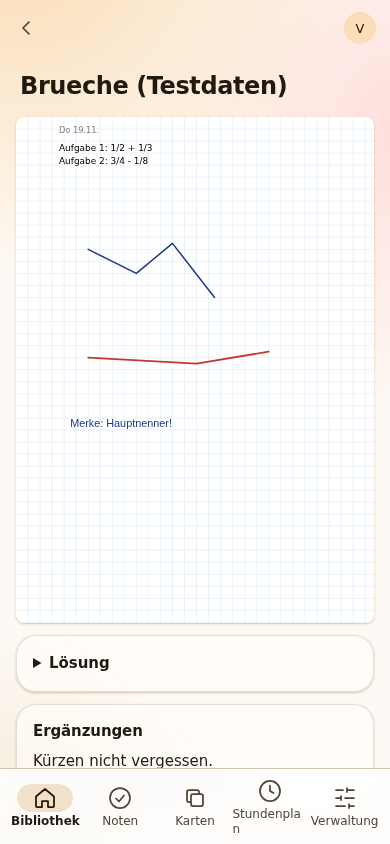
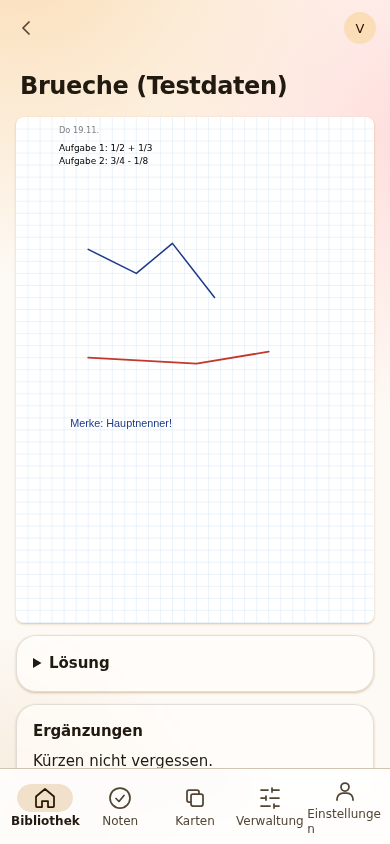
Screenshots without the timetable entry; STATE.md: security review 2 fixed

Changed region(s): [[0.5846, 0.9242, 0.9846, 0.9858]]

diff --git a/docs/STATE.md b/docs/STATE.md
@@ -214,28 +214,33 @@ gefahren; die Skripte der Basis laufen über die normale Verbindung (kleine neue
 
 **Offene Frage des Orchestrators an den Eigentümer** (nichts gebaut): Die Zuweisung gibt alle heutigen Hefte der Person, die die Einrichtung abschließt; der Besitzer ändert sich später nicht mehr.
 
-## Sicherheitsprüfung 2: Behebungen von Meilenstein 1 und Meilenstein 2 (Befunde vom 25.11.2026, Stand)
+## Sicherheitsprüfung 2: Behebungen von Meilenstein 1 und Meilenstein 2 (Befunde vom 25.11.2026, **behoben**)
 
 Ergebnis der Prüfung: kein kritischer oder hoher Befund, kein Weg, auf dem ein Mitglied oder jemand ohne Zugang an Hefte, Seiten, Striche, Scans, Noten, Karten oder die Verwaltung kommt; die Behebungen aus der ersten Prüfung halten.
-**Bauen der Punkte wartet auf das Startzeichen des Orchestrators** (je Punkt ein Commit und, wo möglich, ein Test). Text ist erledigt.
+Alle Punkte sind nach dem Startzeichen des Orchestrators behoben, je Punkt ein Commit und, wo möglich, ein Test. Stand: 384 Tests, 379 grün (die 5 roten sind die Backup-Tests, die `pg_dump` 18 brauchen).
 
-| Nr. | Befund | Vorgesehene Behebung | Stand |
-|---|---|---|---|
-| 1 | Falsche Token spülen das Sicherheitsprotokoll leer (`Keep = 2000`, eine Zeile je gesperrter Minute) | höchstens eine Zeile je Adresse und Stunde oder eine Sammelzeile je Stunde mit Anzahl | offen |
-| 2 | Die Sperre weist auch das richtige Token ab (Sperre vor der Token-Prüfung) | **erst das Token prüfen, ein richtiges geht immer durch**; gezählt und abgewiesen werden nur falsche; `_locked` aufräumen; Test „das richtige Token geht trotz Sperre durch“ | offen |
-| 3 | Das Einsetzen des SVG ist eine Verbotsliste (`pages/util.js`) | **Erlaubnisliste** genau dessen, was `PageRenderer` ausgibt (`href` nur an `image` auf `^/api/web/v1/assets/<guid>$`, `style` nur am einen `div` mit vier Eigenschaften); Test, dass jedes genannte Ding wegfällt | offen |
-| 4 | Zeilen, die während der ersten Zuweisung gepusht werden, bleiben bis zum Neustart ohne Besitzer | Zuweisung unter derselben Sperre wie der Push, oder ein Push mit Besitzer übernimmt besitzerlose Zeilen seines Stapels | offen |
-| 5 | Die Schlüsseldatei liegt beim Sichern kurz im Klartext unter `/tmp` | direkt aus der Schlüsseldatei verschlüsseln, keine Klartextkopie | offen |
-| 6 | Ein verformter Inhalt (kein Objekt) macht alle Listen seiner Art für den Besitzer kaputt (500) | beim Prüfen ablehnen, beim Lesen überspringen; wichtig vor den Freigaben | offen |
-| 7 | Die Zuweisung hängt an der auslösenden Anfrage (bricht ab, wenn der Aufrufer aufgibt) | mit dem Token des Programmendes laufen lassen | offen |
-| 8 | Abmelden über den Hub: Inhalt bleibt im Vor-und-zurück-Speicher; Suchbegriffe im Verlauf | Inhalt vor dem Weggehen leeren, bei `pageshow` mit `persisted` neu laden, beim Abmelden die Adresse auf `#/` setzen | offen (unbestätigt) |
-| 9 | Der Codex-Prozess erbt die ganze Umgebung des Servers und läuft als derselbe Benutzer wie Schlüsseldatei, Sicherungen und Dateien | Umgebung leeren, nur `PATH`, `HOME`, `CODEX_HOME` setzen. **Offener Punkt:** Ob die Sandbox von Codex das Lesen dieser Dateien verhindert, ist **unbelegt**; vor dem Zugang der Mitglieder zur KI zu klären | offen |
-| 10 | Codex-Anmeldeprozesse werden nach 20 s ohne Code, bei zwei gleichzeitigen Anmeldungen oder nach einer Zeitüberschreitung nicht beendet; die KI-Seite fragt alle 5 s mit je zwei Prozessen ab | beenden; seltener abfragen und nur, solange die Seite sichtbar ist | offen |
-| 11 | Der ungefilterte `LibraryReader` steht im DI | nur ein Typ, der ausschließlich `Of(person)` kennt (Code) | offen (Code) |
-| 11 | Der Test für die Admin-Rolle benutzt eine handgeschriebene Wegliste | die Liste der Endpunkte selbst nehmen (Code) | offen (Code) |
-| 11 | STATE.md und ARCHITECTURE.md nannten gelöschte Tests und überholte Aussagen | berichtigt (Commit `4d07e35`) | **erledigt** |
-| 11 | Die Bilder `docs/screenshots/web-*.png` zeigen noch den Menüpunkt „Stundenplan“ | neu aufnehmen, wenn die App das nächste Mal läuft | offen |
-| 11 | Seitenweises Lesen: ein unbekannter Cursor beginnt von vorn, eine zwischen zwei Seiten gelöschte Zeile lässt Zeilen wiederholen | Cursor als Wert (Sortierschlüssel) statt id, oder die Oberfläche entdoppelt | offen |
+| Nr. | Befund | Behebung | Commit | Test |
+|---|---|---|---|---|
+| 1 | Falsche Token spülen das Sicherheitsprotokoll leer | höchstens eine Zeile je Adresse und Stunde (`TokenBrake`), Sperren und Zeilen werden stündlich vergessen | `ad4d6c1` | `SecurityFindingsTests.The_brake_writes_at_most_one_line_an_hour_…` |
+| 2 | Die Sperre wies auch das richtige Token ab | **erst das Token prüfen, ein richtiges geht immer durch**; gezählt werden nur falsche; die Sperre ist nur noch eine Bremse für falsche | `ad4d6c1` | `…A_right_token_gets_through_from_an_address_that_sent_many_wrong_ones_…`, `…A_lock_hits_the_one_address_and_no_other` |
+| 3 | Das Einsetzen des SVG war eine Verbotsliste | **Erlaubnisliste** auf dem Server (`SvgAllowList`: Elemente, Attribute, Muster je Wert, `href` nur an `image` auf `/api/web/v1/assets/<guid>`, vier CSS-Eigenschaften) und dieselbe Liste in der Seite (`pages/util.js`, neu aufgebaut aus neuen Knoten) | `bc2e3f0` | `SvgAllowListTests` (alles, was der Renderer schreibt, bleibt für alle 11 Papiere; jedes genannte Gefährliche fällt weg; die Listen der Seite sind die des Servers) |
+| 4 | Zeilen während der ersten Zuweisung blieben ohne Besitzer | Ein Push der Person hinter dem App-Token übernimmt besitzerlose Zeilen seines Stapels (und der genannten Eltern), unter der Sperre des Push; kein anderer darf das | `ef96e63` | `SecurityFindingsTests.A_push_of_a_row_that_nobody_owns_yet_…` |
+| 5 | Die Schlüsseldatei lag beim Sichern kurz im Klartext in `/tmp` | direkt aus der Schlüsseldatei verschlüsseln; die verschlüsselte Zwischendatei liegt im temporären Ordner und wird nach dem Senden gelöscht | `3692a0c` | `BackupKeyTests.The_key_is_encrypted_straight_from_its_file_…` (kein Klartext in `/tmp` und im Schlüsselordner während des Sendens) |
+| 6 | Ein Inhalt, der kein Objekt ist, machte alle Listen kaputt | beim Prüfen abgelehnt (400), beim Lesen übersprungen | `6174ca4` | `WebApiTests.A_payload_that_is_not_an_object_is_refused_…` |
+| 7 | Die Zuweisung hing an der Anfrage | läuft mit dem Token des Programmendes | `ef96e63` | `SecurityFindingsTests.The_claim_finishes_although_the_request_…` |
+| 8 | Abmelden über den Hub ließ Inhalt im Vor-und-zurück-Speicher | Inhalt vor dem Weggehen leeren, Adresse auf die Seite ohne Suchbegriff, bei `pageshow` mit `persisted` neu laden | `e706d7f` | `WebPagesTests.Signing_out_empties_the_page_…` (als Text; im Browser nicht nachgestellt: unbestätigt wie der Befund) |
+| 9 | Der Codex-Prozess erbte die ganze Umgebung | Umgebung leeren, nur `PATH`, `HOME`, `CODEX_HOME` | `dc4ba33` | `CodexSafetyTests.The_environment_of_codex_is_…`, `…The_running_program_really_does_not_see_…` |
+| 10 | Codex-Anmeldeprozesse blieben stehen; die KI-Seite fragte alle 5 s | nach 20 s ohne Code, bei zwei gleichzeitigen Anmeldungen und nach einer Zeitüberschreitung wird beendet; die Seite fragt alle 15 s und nur, solange sie vorne ist | `dc4ba33` | `CodexSafetyTests.A_login_that_shows_no_code_in_time_is_ended`, `…Two_logins_at_once_…`, `…A_command_that_runs_past_its_time_…` |
+| 11 | Der ungefilterte `LibraryReader` stand im DI | nur `Libraries.Of(person)` im DI, der Konstruktor von `LibraryReader` ist intern | `70eeedb` | `WebApiTests.There_is_no_reader_of_everybodys_notes_to_ask_for` |
+| 11 | Der Test für die Admin-Rolle benutzte eine handgeschriebene Wegliste | nimmt die Endpunkte des Servers selbst (und prüft zusätzlich, dass jeder Weg der Web-Schnittstelle ohne Sitzung 401 gibt) | `70eeedb` | `AdminApiTests.Only_an_administrator_gets_in_at_any_path` |
+| 11 | Seitenweises Lesen: unbekannter Cursor von vorn, gelöschte Zeile wiederholt Zeilen | ein unbekannter oder veralteter Cursor ist ein Fehler (`cursor.stale`), die Seite fragt einmal von vorn und entdoppelt | `70eeedb` | `WebApiTests.Lists_come_page_by_page_…` |
+| 11 | STATE.md und ARCHITECTURE.md nannten gelöschte Tests und Überholtes | berichtigt | `4d07e35` | – |
+| 11 | Bilder zeigten den Menüpunkt „Stundenplan“ | neu aufgenommen (`docs/screenshots/web-*.png`: 12 breit, 4 Telefon) | siehe Verlauf | – |
+
+**Offen aus dieser Prüfung (nicht behoben, benannt):**
+- Ob die Sandbox von Codex das Lesen der Schlüsseldatei, der Sicherungen und der Dateien verhindert, ist **unbelegt** (Befund 9); die Umgebung ist jetzt leer, der Prozess läuft aber weiter als derselbe Benutzer. **Vor dem Zugang der Mitglieder zur KI zu klären**, am besten mit einem eigenen Benutzer oder einer Prüfung der Sandbox.
+- Der Wächter `owner_id is not distinct from excluded.owner_id` im `ON CONFLICT` ist weiter nicht einzeln getestet.
+- Die Bilder sind nur hell (der Headless-Browser ignoriert hier die Einstellung für dunkel).
 
 ## Für das Einspielen (Meilenstein 1 auf die laufende Installation)
 
